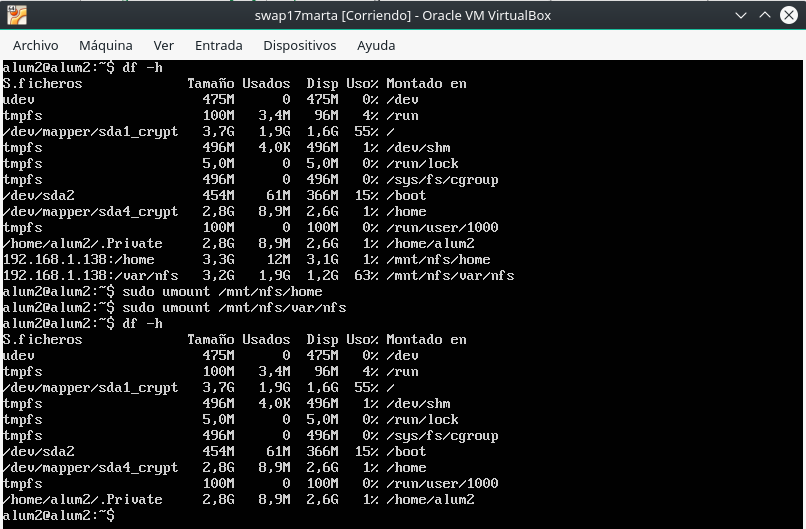
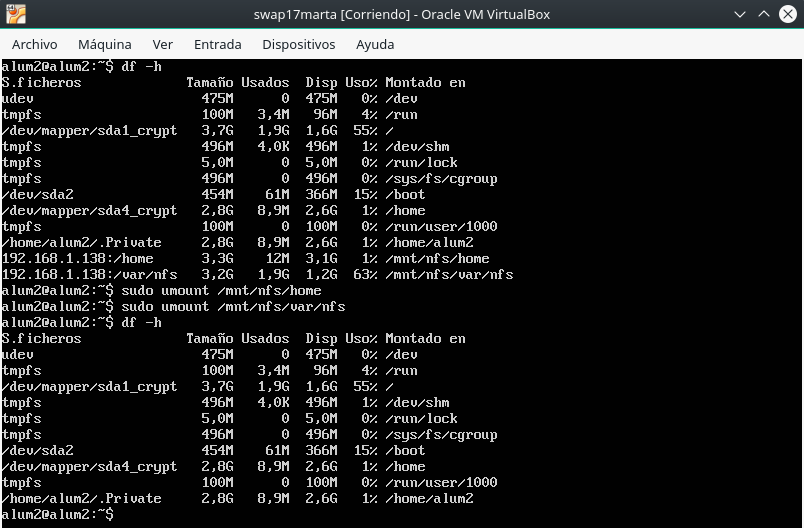
terminado la p6

diff --git a/practicas/practica6/README.md b/practicas/practica6/README.md
@@ -149,3 +149,87 @@ sudo mkdir -p /mnt/nfs/home /mnt/nfs/var/nfs
 ```
 
 ![](17.png)
+
+A continuación, vamos a montar los directorios que está compartiendo el servidor _host_ con el servidor cliente, usando la orden `mount`:
+
+```
+sudo mount $IP_HOST:/home /mnt/nfs/home
+sudo mount $IP_HOST:/var/nfs /mnt/nfs/var/nfs
+```
+
+Una vez montados los directorios, podemos comprobar que se han montado bien, ejecutando una simple orden `ls`. En nuestro caso `IP_HOST` fue 192.168.1.138, así que la orden que introducimos quedó de la siguiente manera:
+
+![](18.png)
+
+Como podemos ver, la orden se ha ejecutado bien, y se han montado de forma correcta los directorios. Pero, existe una forma más elegante de comprobar esto, y es usando la siguiente orden:
+
+```{bash}
+df -h
+```
+
+![](19.png)
+
+En la imagen, en las dos últimas líneas podemos ver cómo el sistema de ficheros montado es el que corresponde al sistema de ficheros del servidor _host_, el tamaño, el espacio usado, el disponible, etc. y dónde está montado el sistema de archivos. Por lo tanto, podemos ver que se han montado de forma correcta.
+
+## Probando el NFS
+
+Una vez configurado y montado el NFS, podemos probar fácilmente que funciona de forma correcta, creando un fichero en los directorios con la orden `touch` en cualquiera de las máquinas.
+
+```
+sudo touch /mnt/nfs/home/archivo_de_prueba_en_home.txt
+```
+
+En este caso, la prueba es para el directorio `/home` desde la máquina cliente y como podemos ver en la siguiente imagen, funciona.
+
+![](20.png)
+
+Lo mismo sucede si lo ejecutamos desde la máquina _host_. 
+
+```
+sudo touch /mnt/nfs/var/nfs/archivo_de_prueba_en_var.txt
+```
+
+![](21.png)
+
+Y al igual que antes, se realiza la sincronización de forma correcta.
+
+## Realizar el montado del NFS de forma automática al inicio
+
+Para no tener que estar ejecutando todos los comandos anteriores cada vez que queramos sincronizar las máquinas, podemos hacer que las máquinas se sincronicen al iniciarlas de la siguiente manera.
+
+Lo primero es abrir el fichero `/etc/fstab`, y añadir al final del fichero las siguientes líneas:
+
+```
+192.168.1.138:/home    /mnt/nfs/home   nfs auto,noatime,nolock,bg,nfsvers=4,intr,tcp,actimeo=1800 0 0
+192.168.1.138:/var/nfs    /mnt/nfs/var/nfs   nfs auto,noatime,nolock,bg,nfsvers=4,sec=krb5p,intr,tcp,actimeo=1800 0 0
+```
+
+Para más opciones de configuración del `fstab`, podemos consultar siempre el _man_, pero, las que aparecen en la línea significan:
+
+* `auto`: detecta y establece de forma automática el sistema de archivos (_ext2_, _ext4_, etc.).
+* `noatime`: se refiere al _File timestamp maintainence_ aunque para sistemas NFS no afecta.
+* `nolock`: a parte de mejorar el rendimiento, es necesario para que, cuando montemos algo en el directorio `/var`, el _Network Lock Manager_ bloqueará algunos archivos. Es por esto, y a que algunos servidores no soportan tampoco NLM, el porqué de no bloquear los archivos al usar NFS.
+* `bg`: el montado se realizará en segundo plano, y en caso de que falle, no mostrará ningún error.
+* `nfsvers`: versión del protocolo de NFS.
+* `sec`: lista de "_security flavors_" que se usarán para acceder a un archivo.
+* `intr`: se usa para la compatibilidad, aunque a paritr del kernel 2.6.25 se ignora.
+* `tcp`: _sugar sintax_ para establecer directamente que se use el protocolo _tcp_.
+* `actimeo`: tiempo que espera NFS para pedir al servidor información sobre los archivos.
+
+![](22.png)
+
+
+## Desmontar un sistema NFS
+
+Para realizar esta acción en nuestra máquina cliente, es tan sencillo como invocar a la orden `umount`:
+
+```{bash}
+sudo umount /mnt/nfs/home
+sudo umount /mnt/nfs/var/nfs
+# O para desmontarlo todo en una sola orden
+sudo umount -R /mnt/nfs/
+```
+
+Tras desmontarlo, podemos volver a ejecutar el comando `df -h` para ver los sistemas de archivos que hay montados en la máquina cliente, tal y como se ve en la siguiente imagen.
+
+![](23.png)
